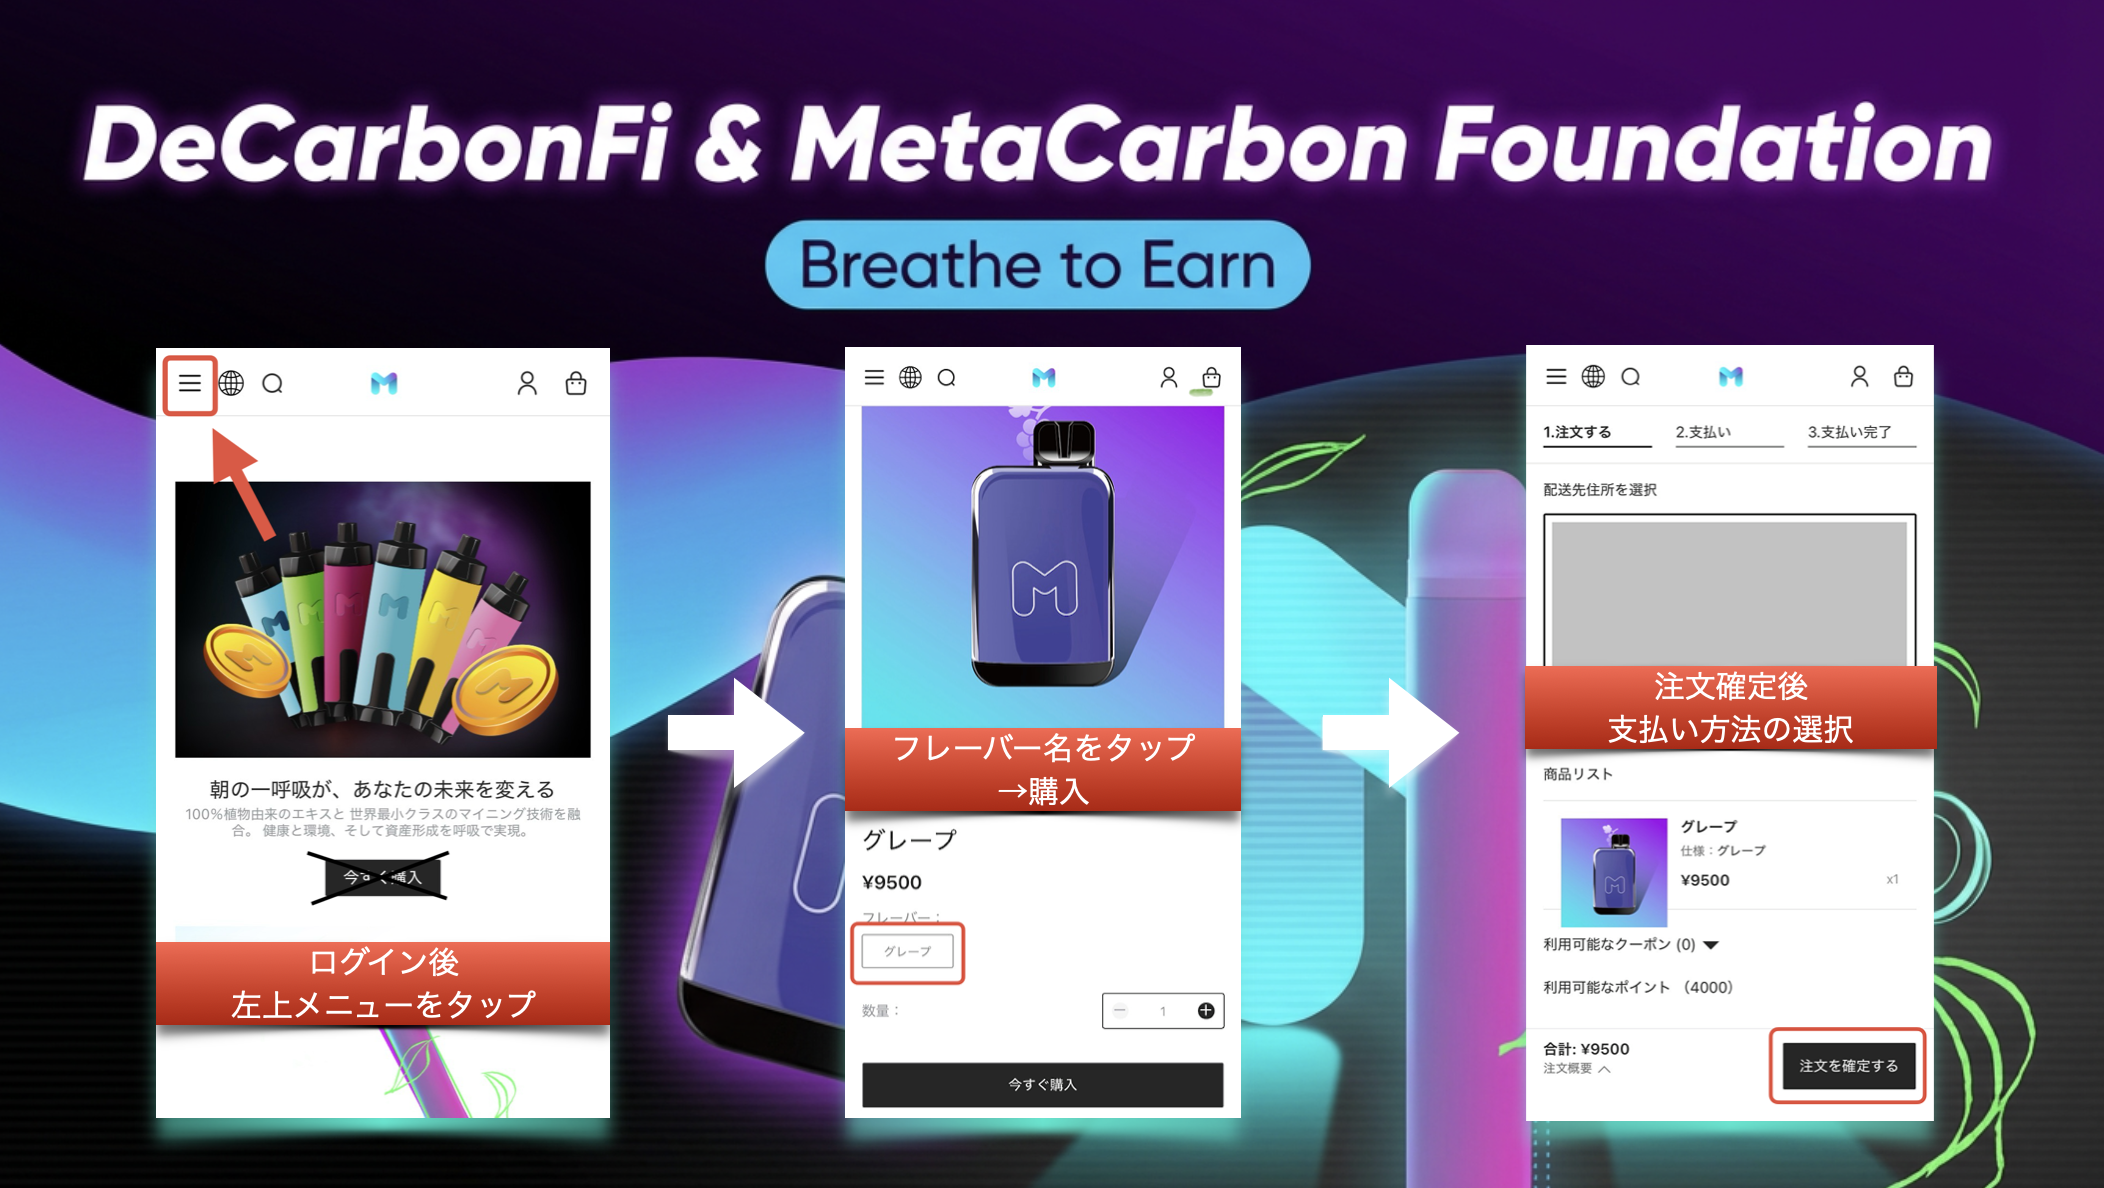
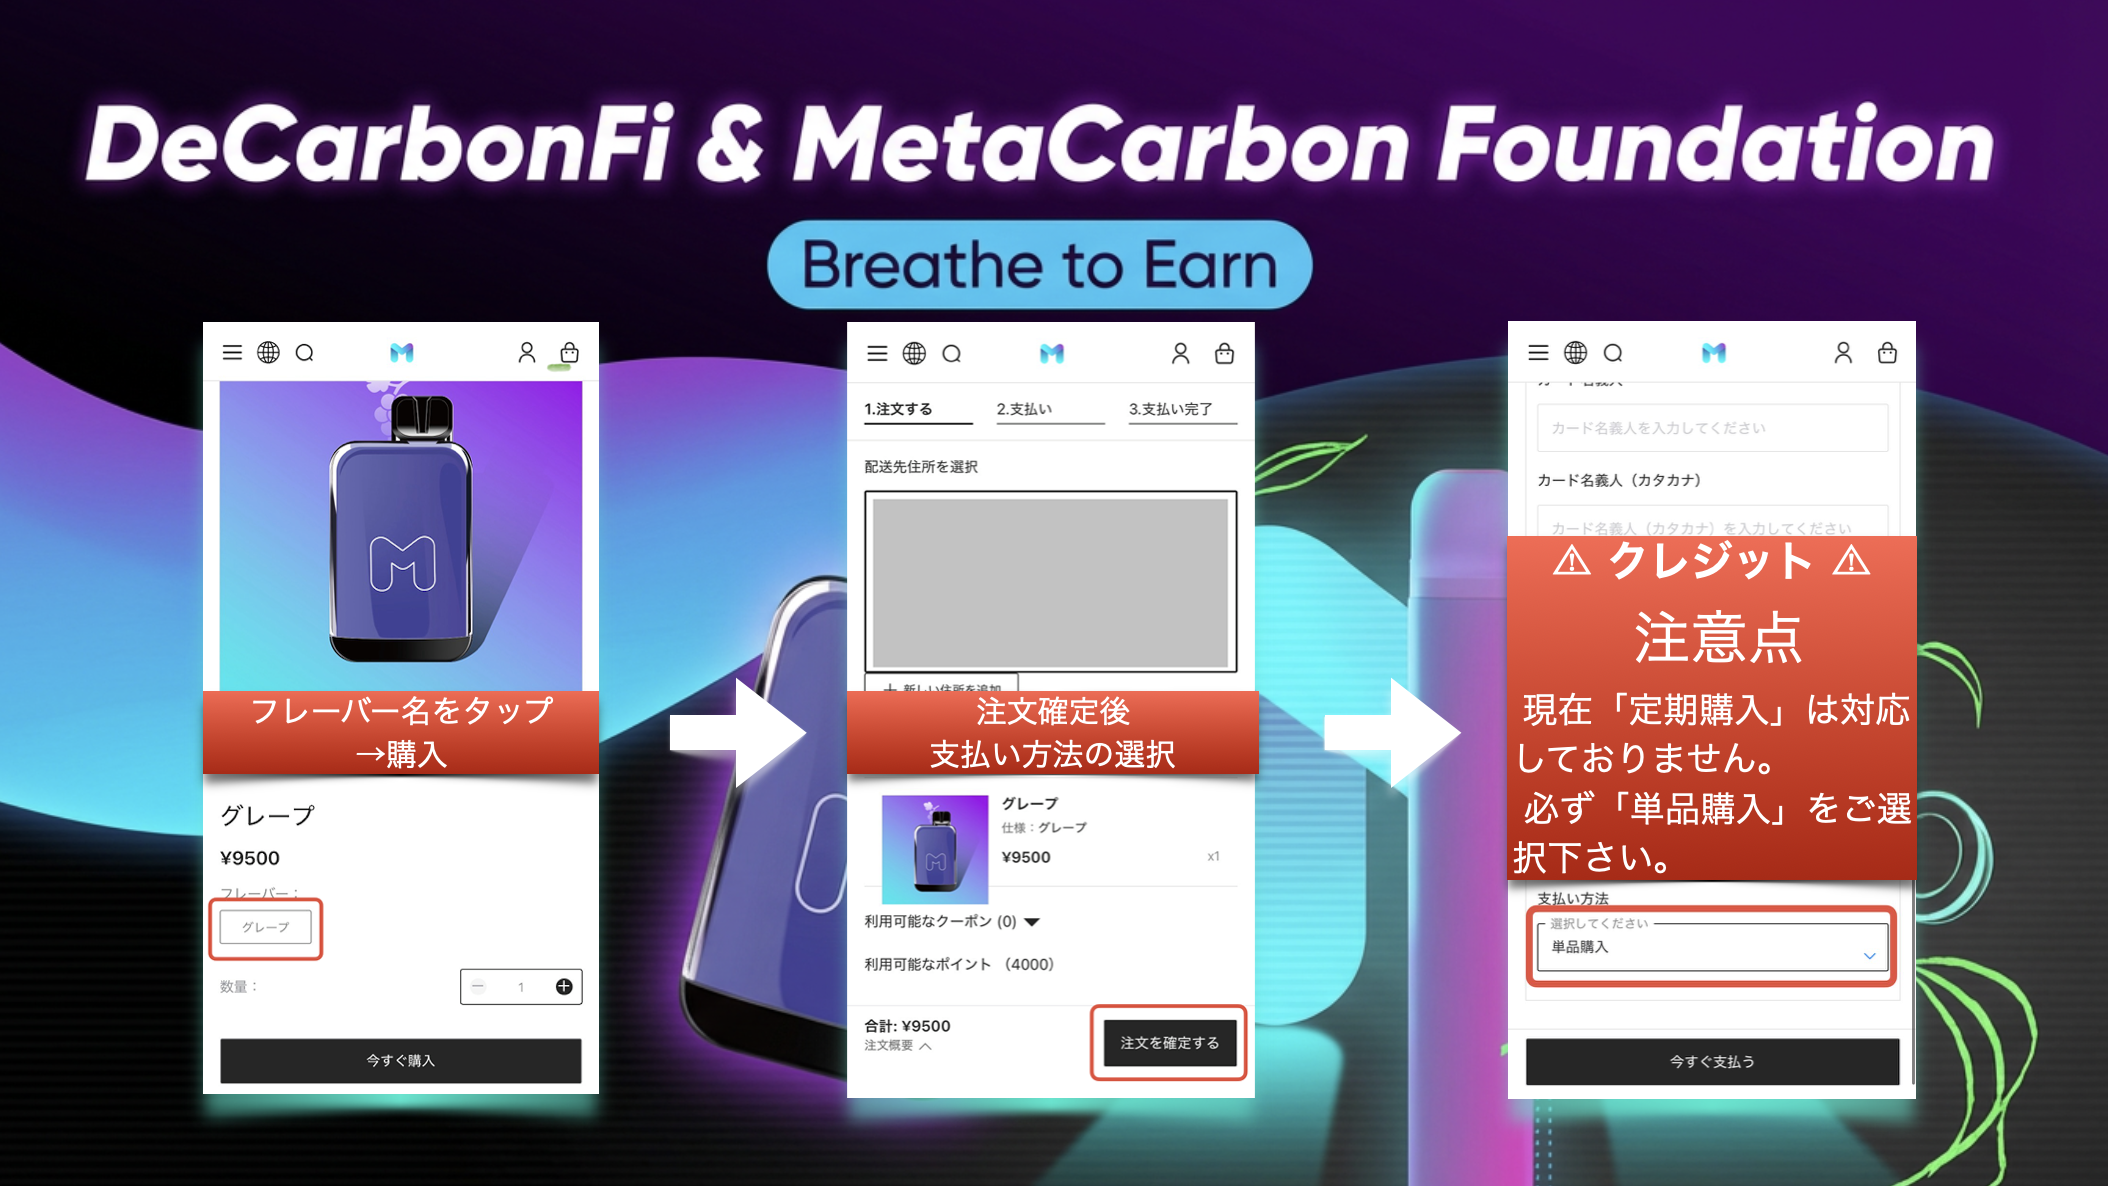
Add files via upload

diff --git a/index.html b/index.html
@@ -17,20 +17,20 @@
       background: #000;
     }
 
-    /* ===== ファーストビュー（背景：電子シーシャ位置調整） ===== */
+    /* ===== ファーストビュー（背景：電子シーシャ中央寄せ） ===== */
     .hero {
       min-height: 100vh;
       background-image: url("bg-main.png");
       background-repeat: no-repeat;
       background-size: cover;
-      background-position: 40% center; /* ← 電子シーシャを中央寄りに */
+      background-position: 40% center;
       display: flex;
       align-items: center;
       justify-content: center;
       padding: 18px;
     }
 
-    /* スマホではさらに中央へ */
+    /* スマホでは少し強めに中央寄せ */
     @media (max-width: 768px) {
       .hero {
         background-position: 38% center;
@@ -81,7 +81,7 @@
       margin-bottom: 22px;
     }
 
-    /* ===== 穏やか拍動ボタン ===== */
+    /* ===== 穏やか拍動CTA ===== */
     .cta {
       display: inline-block;
       width: 100%;
@@ -107,15 +107,9 @@
     @keyframes calmBeat {
       0% {
         transform: scale(1);
-        box-shadow:
-          0 0 14px rgba(124,92,255,0.5),
-          0 0 28px rgba(34,211,238,0.3);
       }
       40% {
         transform: scale(1.03);
-        box-shadow:
-          0 0 18px rgba(124,92,255,0.6),
-          0 0 34px rgba(255,92,244,0.35);
       }
       100% {
         transform: scale(1);
@@ -155,7 +149,7 @@
     .step-img img {
       width: 100%;
       border-radius: 18px;
-      box-shadow shadow: 0 14px 40px rgba(0,0,0,0.7);
+      box-shadow: 0 14px 40px rgba(0,0,0,0.7);
     }
 
     /* ===== 注意 ===== */
@@ -209,7 +203,7 @@
     </div>
   </section>
 
-  <!-- ===== 操作手順 ===== -->
+  <!-- ===== 操作手順（step-1 / step-2 のみ） ===== -->
   <section class="steps">
     <h2>購入までの流れ</h2>
     <div class="guide">
@@ -222,10 +216,6 @@
 
     <div class="step-img">
       <img src="step-2.png" alt="操作手順2">
-    </div>
-
-    <div class="step-img">
-      <img src="step-3.png" alt="操作手順3">
     </div>
 
     <div class="alert">
